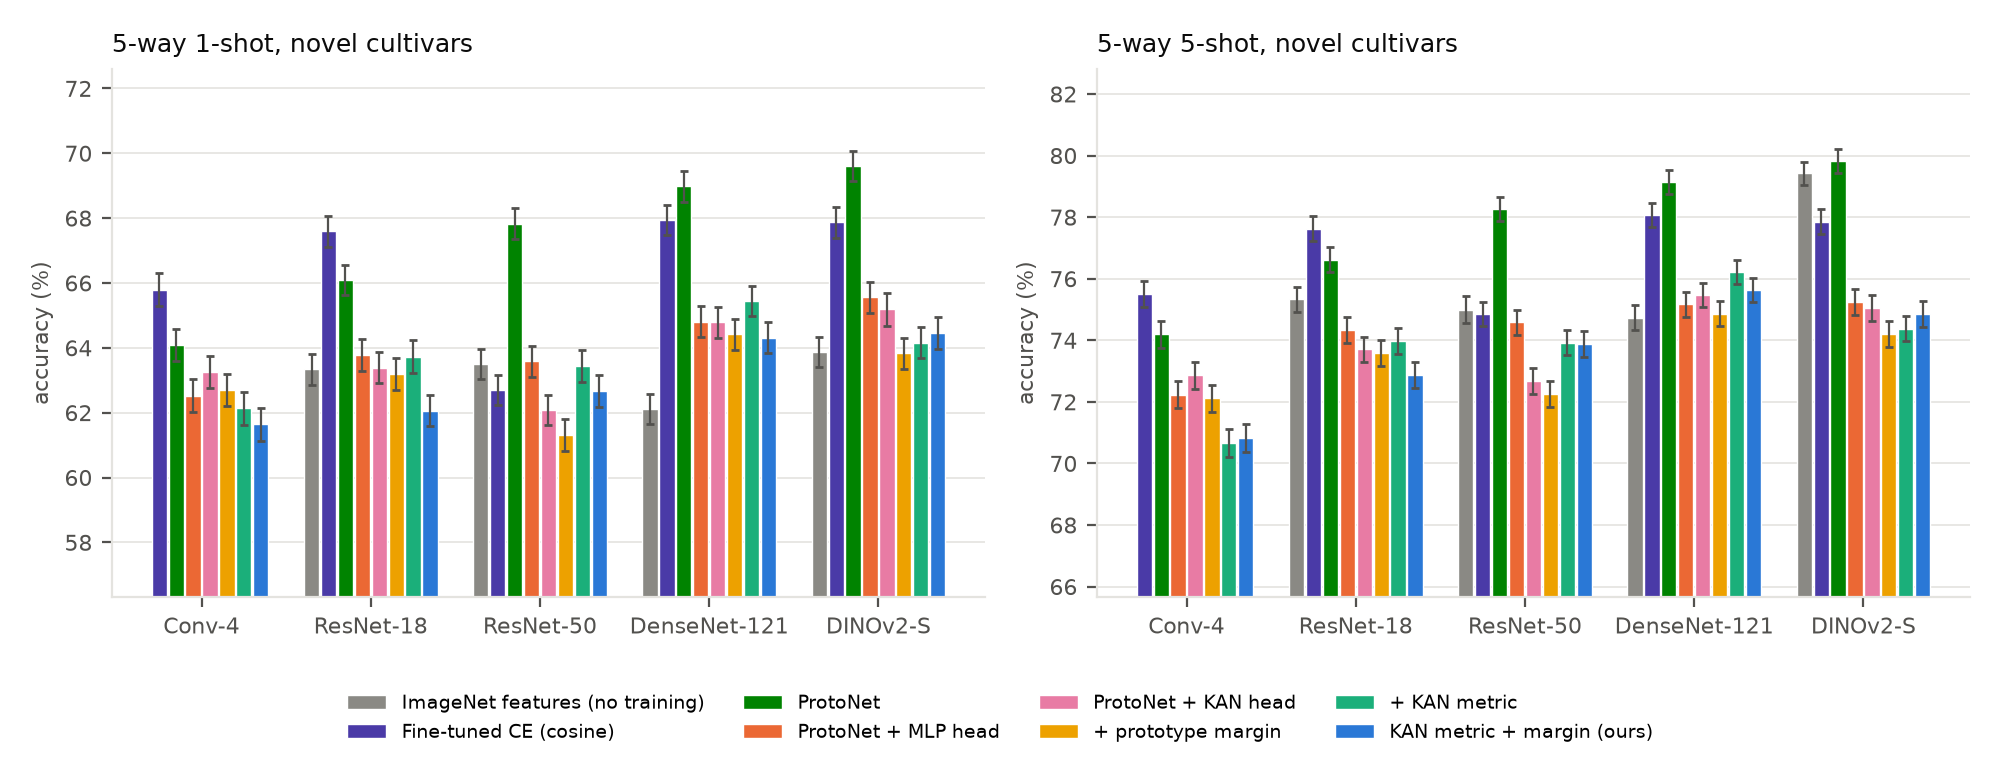
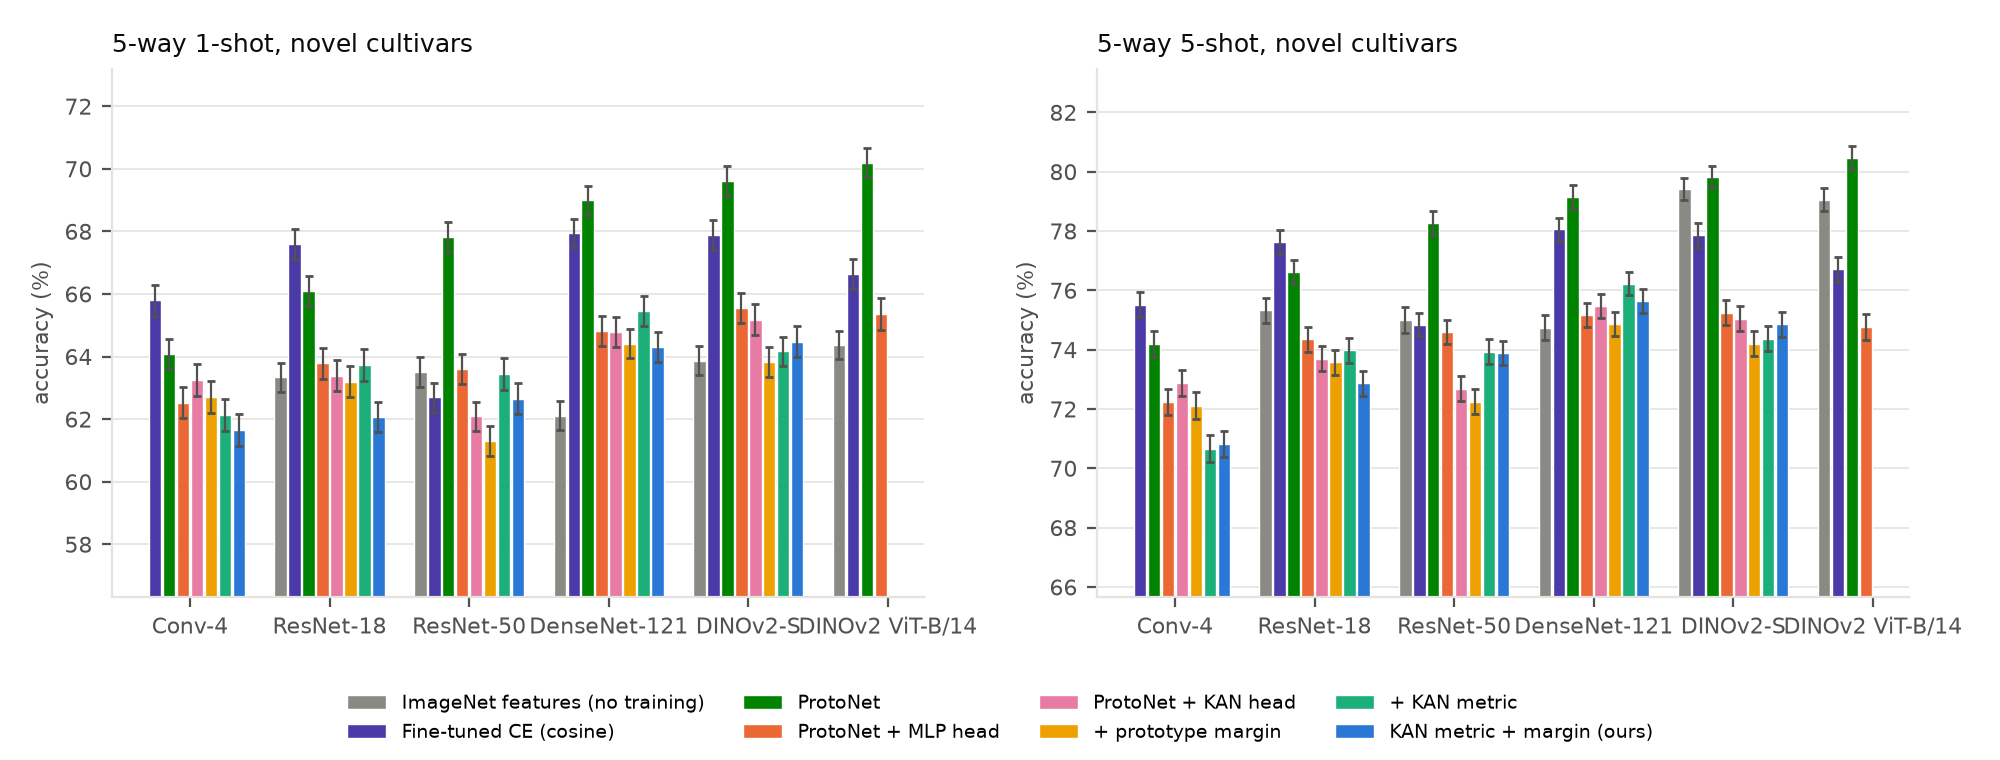
add updated figures and findings

diff --git a/README.md b/README.md
@@ -30,19 +30,26 @@ The repository contains:
 
 - **Unseen cultivars are much harder than the closed set.** On the 5-way
   unseen-cultivar task, the best model per backbone reaches 68–70% with 1 photo
-  per cultivar and 78–80% with 5 photos. Ordinary fine-tuning reaches
+  per cultivar and 78–81% with 5 photos. Ordinary fine-tuning reaches
   95.8–99.5% when every cultivar is known in advance.
 - **Projection heads hurt transfer.** Adding an MLP or KAN head lowers
   accuracy on unseen cultivars. The best embedding is the backbone feature of a
-  model that was trained with a head and is then used without it: 81–83% in
+  model that was trained with a head and is then used without it: 81–84% in
   5-shot tasks.
 - **KAN does not help.** The KAN head is on par with the MLP head (−1.9 to
   +0.6 points) with about ten times as many parameters. The KAN metric helps
   only DenseNet-121 (about +1 point). This is reported as a negative result.
 - **Changing the source dataset costs the most accuracy.** When support and
   query photos come from different source datasets (other phone, region,
-  background, ripeness), 5-shot accuracy drops by 13–28 points. Cultivars
-  that appear in several source datasets are the hardest to recognise.
+  background, ripeness), 5-shot accuracy drops by 13–28 points. Centring the
+  features on the unlabelled test photos of each source recovers up to 4.4
+  points. Cultivars that appear in several source datasets are the hardest to
+  recognise.
+- **A larger backbone adds little.** DINOv2 ViT-B/14 is at most one point
+  more accurate than ViT-S/14, with four times the parameters.
+- **The differences are not seed noise.** Over three training seeds the
+  accuracy varies by a standard deviation of at most 1 point, while the gaps
+  between heads are 3–5 points.
 - **Leakage inflates closed-set accuracy by only 0.9–2.6 points**, because
   closed-set accuracy is already near the ceiling.
 - **With 5 or more images per cultivar of a known set, ordinary fine-tuning
